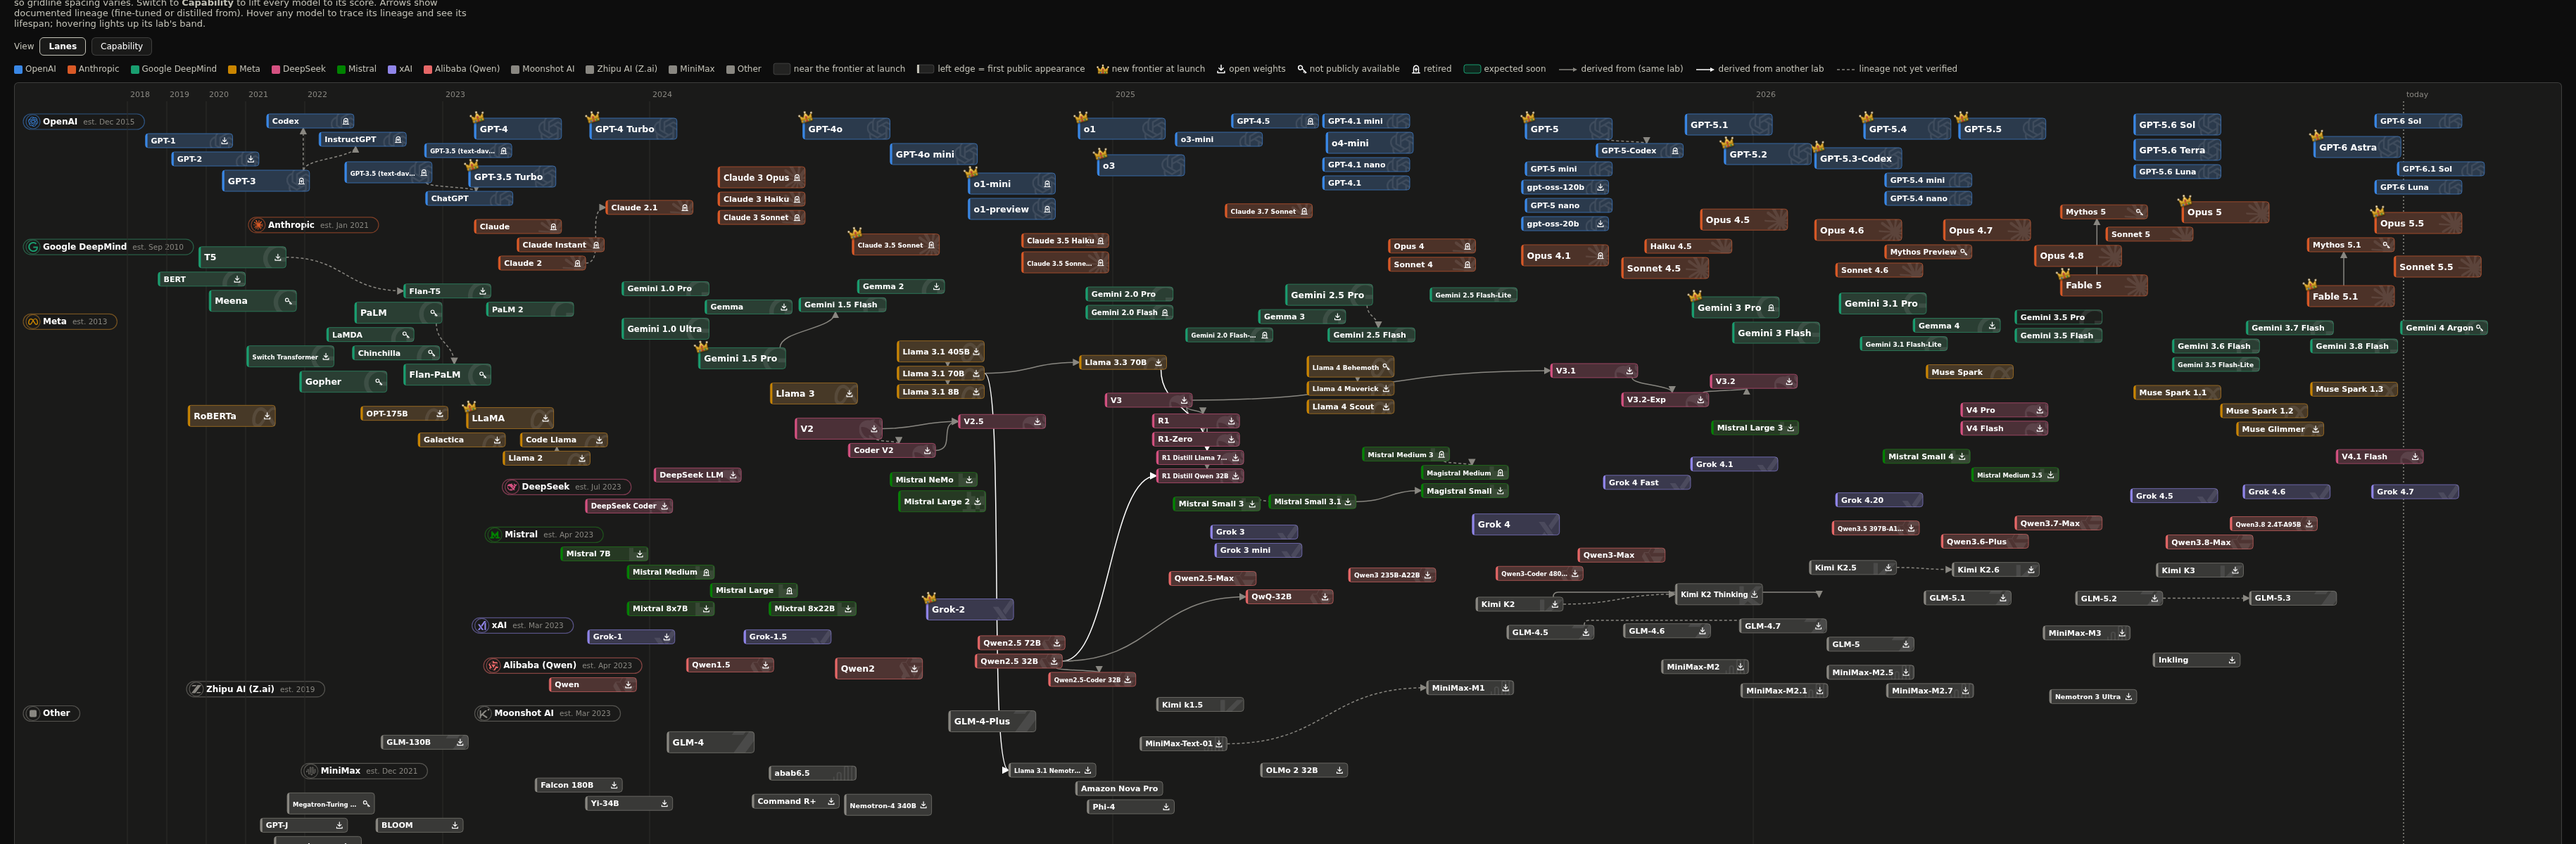
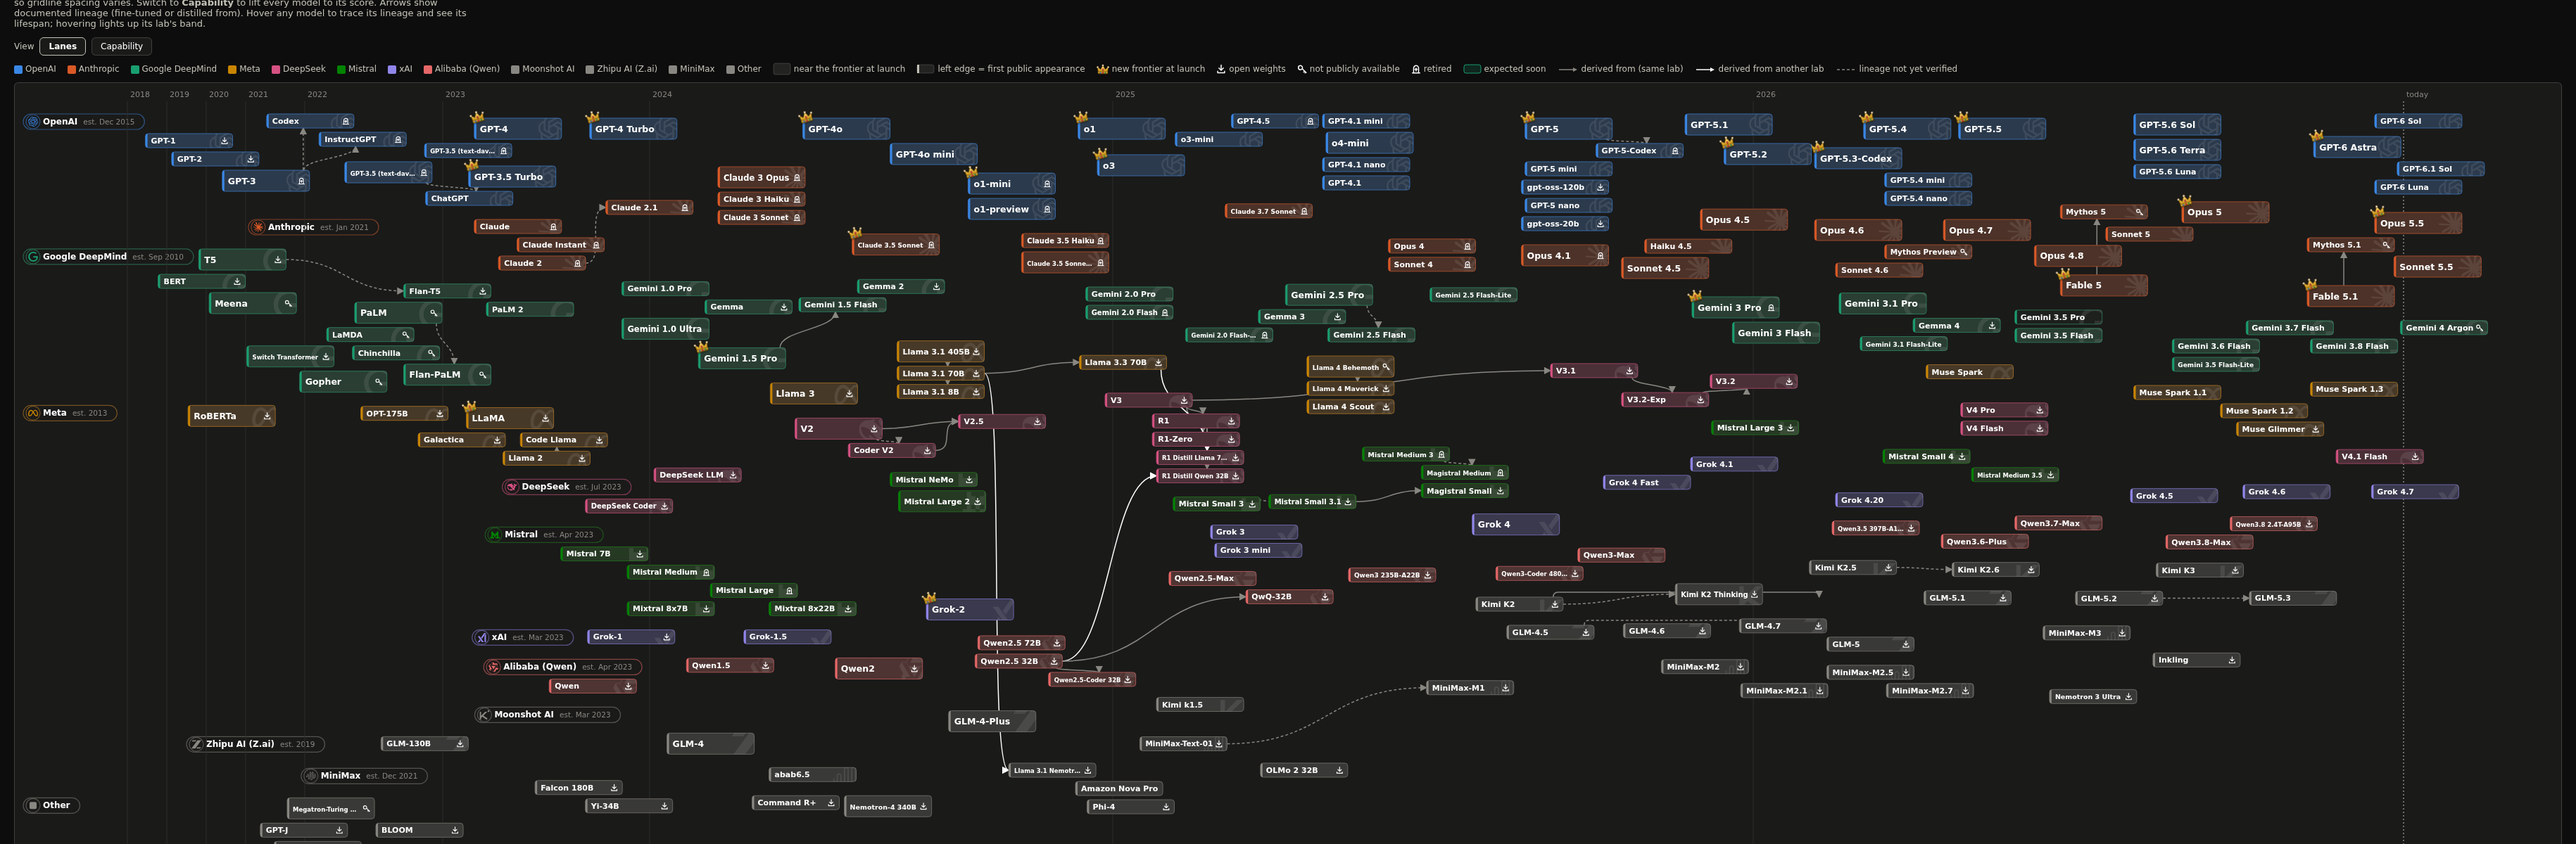
Prototype: level founding pills with each lab's first model
A pill now sits no higher than the band above it reaches between the pill
and the lab's first model, so lanes run level into their models instead
of diving under a neighbour's bulge (Meta, Google DeepMind, Other).

diff --git a/prototype/boxes.html b/prototype/boxes.html
@@ -289,8 +289,11 @@ const curve = { top: {}, t: {}, bottom: null };
     const sky = upper.map(v => v + LANE_PAD);
     const raw = upper.map(v => v + RIBBON);
     { // the founding pill is an obstacle like a card: the band opens for it and cards go below it
+      // sit no higher than the lowest point of the band above between the pill and the lab's first
+      // model, so the band runs level into its models instead of diving under a neighbour's bulge
       const P = pills[id], i0 = xi(P.x), i1 = xi(P.x + P.w);
-      let y = -Infinity; for (let i = i0; i <= i1; i++) y = Math.max(y, sky[i]);
+      const firstX = Math.min(...Object.values(placed).filter(p => p.m.lab === id).map(p => p.x));
+      let y = -Infinity; for (let i = i0; i <= Math.max(i1, xi(firstX + BOX_W)); i++) y = Math.max(y, sky[i]);
       P.y = y;
       for (let i = i0; i <= i1; i++) { sky[i] = y + PILL_H + ROW_GAP; raw[i] = Math.max(raw[i], y + PILL_H + LANE_PAD); }
     }
